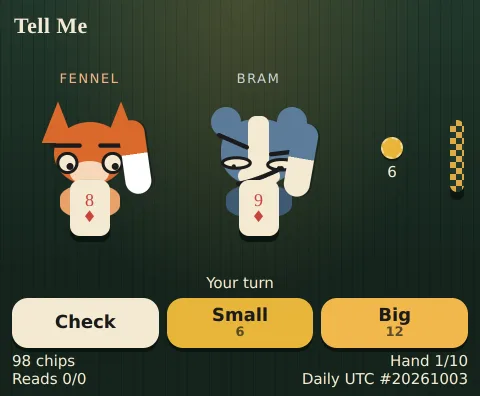
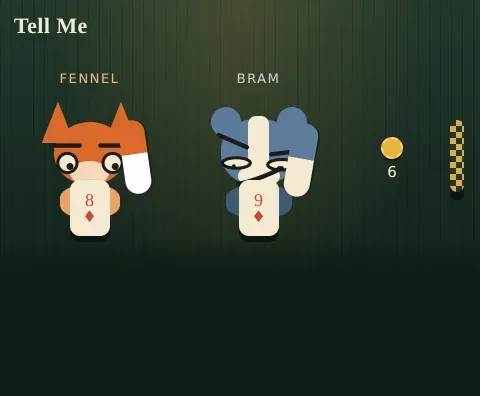
Cottage Arcade: fix the findings from the review
- Crimson Rogue's end card keeps FIGHT AGAIN and ARCADE in the window (switch.js credits: false for the four Lab toys, and the roll stops at its bottom edge when the card is taller than the window).
- In Full Swing stops its sound when the page is hidden on a phone.
- A SoundCloud song that starts after the page was hidden is paused.
- Small Worlds asks search engines to skip it.
- The switcher names Shore of the Ancients.
- machines.mjs compares each machine with its switcher entry and checks the Crimson end card; quiet.mjs scans for video, speech and SoundCloud, tests a late SoundCloud script, and tests In Full Swing.
- Tell Me and BREAKTHROUGH link back to the arcade; the Tell Me machine art no longer shows its button row.
- OpenSpec changes for the machines and for the sound guard.

Claude-Session: https://claude.ai/code/session_013PKjXQjYyoyz8vDozgN76G

Changed region(s): [[0.0, 0.697, 1.0, 0.9697]]

diff --git a/public/arcade/switch.js b/public/arcade/switch.js
@@ -3,7 +3,7 @@
 // The script finds those buttons, works out which game this page is from its URL, and opens the list.
 (() => {
   const GAMES = [
-    { id: "tidebreak", name: "Monster Mash", sub: "Folklore realm MOBA", url: "/tidebreak/", art: "/tidebreak/art/mothman.webp", color: "#d2e46d" },
+    { id: "tidebreak", name: "Shore of the Ancients", sub: "3v3 folklore MOBA", url: "/tidebreak/", art: "/tidebreak/art/shore-ancients-hero.webp", color: "#d2e46d" },
     { id: "brawl", name: "Cottage Brawl", sub: "8-fighter platform battle", url: "/brawl/", art: "/brawl/art/hero-chaos.webp", color: "#ffca51" },
     { id: "worlds", name: "Small Worlds", sub: "Six mobile experiments", url: "/lab/worlds/", art: "/arcade/worlds.webp", color: "#c7e5ac" },
     { id: "plungerd", name: "Get Plunger'd", sub: "Cottage Brawl", url: "/plungerd/", art: "/arcade/plungerd.webp", color: "#e6c35c" },
@@ -16,15 +16,16 @@
     { id: "olympus", name: "Olympus", sub: "Last Flame", url: "/olympus/", art: "/arcade/olympus.webp", color: "#edc06b" },
     { id: "moonwell", name: "Moonwell", sub: "Endless pinball dungeons", url: "/moonwell/", art: "/arcade/moonwell.webp", color: "#edc779" },
     { id: "breakthrough", name: "Breakthrough", sub: "Climate strategy", url: "/breakthrough2/", art: "/arcade/breakthrough.webp", color: "#f0c56a" },
-    // The Lab and the games it lists. A game inside the Lab has a longer address than the Lab, and the longest match wins.
+    // credits: false keeps a game off the end card of Crimson Rogue (the Lab tile covers the four toys)
+  // The Lab and the games it lists. A game inside the Lab has a longer address than the Lab, and the longest match wins.
     { id: "lab", name: "The Lab", sub: "Early prototypes and toys", url: "/lab/", art: "/arcade/lab.webp", color: "#f0b848" },
     { id: "neon", name: "Neon Ronin", sub: "Gyro sword duels", url: "/neon/", art: "/arcade/neon.webp", color: "#caff54" },
     { id: "echo", name: "Loon Echo", sub: "Rescue the flock", url: "/echo/", art: "/arcade/echo.webp", color: "#9ff2de" },
     { id: "tellme", name: "Tell Me", sub: "A card game with critters", url: "/tellme/", art: "/arcade/tellme.webp", color: "#f4e4bd" },
-    { id: "plunge", name: "Take the Plunge", sub: "Dive and fly south", url: "/lab/plunge/", art: "/arcade/plunge.webp", color: "#ffce7e" },
-    { id: "creek", name: "Up the Creek", sub: "Your phone is the paddle", url: "/lab/creek/", art: "/arcade/creek.webp", color: "#92e8ce" },
-    { id: "tilt", name: "Full Tilt", sub: "A pinball voyage", url: "/lab/tilt/", art: "/arcade/tilt.webp", color: "#f5a6e5" },
-    { id: "rules", name: "House Rules", sub: "Build a Down the Drain layer", url: "/lab/rules/", art: "/arcade/rules.webp", color: "#ffd56b" },
+    { id: "plunge", name: "Take the Plunge", sub: "Dive and fly south", url: "/lab/plunge/", art: "/arcade/plunge.webp", color: "#ffce7e", credits: false },
+    { id: "creek", name: "Up the Creek", sub: "Your phone is the paddle", url: "/lab/creek/", art: "/arcade/creek.webp", color: "#92e8ce", credits: false },
+    { id: "tilt", name: "Full Tilt", sub: "A pinball voyage", url: "/lab/tilt/", art: "/arcade/tilt.webp", color: "#f5a6e5", credits: false },
+    { id: "rules", name: "House Rules", sub: "Build a Down the Drain layer", url: "/lab/rules/", art: "/arcade/rules.webp", color: "#ffd56b", credits: false },
   ];
   // a game marked probe shows only when its page answers
   const live = {};

diff --git a/public/arcade/quiet.js b/public/arcade/quiet.js
@@ -132,6 +132,10 @@
   const songs = [];
   let songTimer = 0;
   function hushSongs() {
+    // Ask again every second while hidden. A game can start a song while hidden (when it changes song, or when SoundCloud's
+    // script loads late on a slow phone), and a widget cannot be stopped from doing it. The timer starts before any check
+    // for the player, so a player that appears later is still found.
+    if (!songTimer) songTimer = setInterval(() => { if (hidden()) hushSongs(); else stopSongs(); }, 1000);
     const SC = window.SC, frames = document.querySelectorAll('iframe[src^="https://w.soundcloud.com/"]');
     if (!SC || typeof SC.Widget !== "function" || !frames.length) return;
     for (const f of frames) safe(() => {
@@ -139,8 +143,6 @@
       // the answer comes later: by then the page may be visible again
       w.isPaused((paused) => safe(() => { if (!paused && hidden()) { if (songs.indexOf(w) < 0) songs.push(w); w.pause(); } }));
     });
-    // a game can start a song again while hidden (when it changes song), and a widget cannot be stopped from doing it: ask again
-    if (!songTimer) songTimer = setInterval(() => { if (hidden()) hushSongs(); else stopSongs(); }, 1000);
   }
   function stopSongs() { clearInterval(songTimer); songTimer = 0; }
   function wakeSongs() {
@@ -177,4 +179,6 @@
       media() { const out = []; for (const e of medias) { const m = e.ref.deref(); if (m) out.push({ paused: m.paused, heldByQuiet: e.mine }); } return out; },
     }),
   }));
+  // a page that opens in a background tab gets no hide event, so start guarding at once
+  if (hidden()) hush();
 })();

diff --git a/public/crimson/js/credits.js b/public/crimson/js/credits.js
@@ -306,7 +306,7 @@ export function rollCredits(opts) {
   const grid = fin.querySelector('.games');
   const games = (window.GameSwitch && window.GameSwitch.GAMES) || [];
   for (const g of games) {
-    if (g.id === 'crimson') continue;
+    if (g.id === 'crimson' || g.credits === false) continue;
     const a = el('a', 'game', `<img alt=""><span><b></b><small></small></span>`);
     a.href = g.url; a.style.setProperty('--c', g.color || '#e9e6df');
     a.querySelector('img').src = g.art; a.querySelector('b').textContent = g.name; a.querySelector('small').textContent = g.sub;
@@ -334,6 +334,8 @@ export function rollCredits(opts) {
   let done = false, skipFrom = null, raf = 0, y = innerHeight;
   const endY = () => {
     const room = innerHeight - fin.offsetHeight;
+    // a last block taller than the window: show its bottom, so the buttons stay in view
+    if (room < 32) return -(fin.offsetTop + fin.offsetHeight - innerHeight + 16);
     return -(fin.offsetTop - Math.max(16, room / 2));
   };
   const frame = (rafNow) => {

diff --git a/public/vr/js/main.js b/public/vr/js/main.js
@@ -946,7 +946,11 @@ async function boot() {
   renderer.setAnimationLoop(loop);
   addEventListener("resize", onResize);
   addEventListener("pagehide", saveNow);
-  document.addEventListener("visibilitychange", () => { if (document.hidden) saveNow(); });
+  document.addEventListener("visibilitychange", () => {
+    if (document.hidden) saveNow();
+    // on the phone (flat) the page itself hides; in a headset session the XR visibility callback above does this
+    if (!isXR()) { if (document.hidden) audio.suspend(); else if (audioStarted) audio.resume(); }
+  });
 
   // PWA launch (spec §6): the icon tap is the user activation, so ask for the session before building the city
   let launched = false;

diff --git a/public/breakthrough2/style.css b/public/breakthrough2/style.css
@@ -96,6 +96,7 @@ h1, h2, .brand h1, #title h2, #ending h2, #flash-year {
 }
 #top h1 { font-size: 22px; line-height: 1; }
 .top-actions { display: flex; align-items: center; gap: 8px; }
+#home { white-space: nowrap; min-height: 44px; display: inline-flex; align-items: center; padding: 0 4px; font-size: 12px; font-weight: 700; color: var(--ink); text-decoration: none; }
 #seedline { margin: 0; font-size: 12px; font-weight: 600; color: var(--smog); }
 #help {
   width: 44px;

diff --git a/public/lab/worlds/index.html b/public/lab/worlds/index.html
@@ -3,6 +3,7 @@
 <head>
   <meta charset="utf-8">
   <script src="/arcade/quiet.js"></script>
+  <meta name="robots" content="noindex">
   <meta name="viewport" content="width=device-width,initial-scale=1,viewport-fit=cover">
   <meta name="theme-color" content="#09151a">
   <meta name="description" content="Six small worlds to play with one thumb. Pull a living landscape, fold a river, conduct a storm, and more.">

diff --git a/public/tellme/style.css b/public/tellme/style.css
@@ -77,6 +77,17 @@ button { font-family: inherit; touch-action: manipulation; }
   font-weight: 600;
   letter-spacing: .02em;
 }
+#home {
+  margin-left: 14px;
+  min-height: 44px;
+  display: inline-flex;
+  align-items: center;
+  font-size: 14px;
+  font-weight: 700;
+  color: inherit;
+  text-decoration: none;
+  opacity: .8;
+}
 #mute {
   position: absolute;
   top: 8px;

diff --git a/public/tellme/index.html b/public/tellme/index.html
@@ -14,7 +14,7 @@
   <div id="table">
     <img id="tablebg" alt="">
     <div id="glow"></div>
-    <header id="topbar"><h1>Tell Me</h1></header>
+    <header id="topbar"><h1>Tell Me</h1><a id="home" href="/">◀ Arcade</a></header>
     <div id="critters">
       <article class="critter fennel" data-who="fennel">
         <div class="name">Fennel</div>

diff --git a/public/breakthrough2/index.html b/public/breakthrough2/index.html
@@ -17,6 +17,7 @@
       <h1>Breakthrough</h1>
     </div>
     <div class="top-actions">
+      <a id="home" href="/">◀ Arcade</a>
       <p id="seedline">Seed</p>
       <button type="button" id="help" aria-label="How to play">?</button>
     </div>

diff --git a/README.md b/README.md
@@ -19,7 +19,7 @@ The site opens on the Cottage Arcade, a room of old-school cabinets. Click anywh
 - Every game's menu has a **Switch game** button. It lists every game that has a machine, marks the one you are playing, and jumps straight to another game or back to the arcade. The two buttons at the bottom stay in view while you scroll the list. The list lives in `public/arcade/switch.js`. When one game's address starts with another's (`/lab/worlds/` and `/lab/`), the longer one is the game you are playing. Only some game menus have the button so far. To add the button to a game, load that script and give a menu button the `data-switch` attribute. Breath of the Lake (`/wild/`) is already on the list: its tile shows as soon as that game is live.
 - Each screen shows your best run from that game, saved in your browser. Down the Drain shows its high score and the initials of the player who set it.
 
-Sound stops when a page is hidden. On a phone, a tab you leave, a browser you minimise, or a locked screen can keep playing music. `public/arcade/quiet.js` stops it for every game. It keeps track of every `AudioContext`, `<audio>`, and `<video>` that a page makes, and of the SoundCloud songs in Get Plunger'd and Crimson Rogue. When the page is hidden, it suspends them. When the page is visible again, it starts only what it stopped, and a game that suspends its own sound keeps control of it. Each game page that makes sound loads it first in `<head>`: `<script src="/arcade/quiet.js"></script>`. A new game must do the same. In Full Swing (`/vr/`) does not load it, because its own sound already follows the VR session. To test it, serve `public/` and run `node qa/arcade/quiet.mjs`. It fails when a page with sound does not load the script first. It also opens each game, hides the page, and checks that the sound stops and comes back.
+Sound stops when a page is hidden. On a phone, a tab you leave, a browser you minimise, or a locked screen can keep playing music. `public/arcade/quiet.js` stops it for every game. It keeps track of every `AudioContext`, `<audio>`, and `<video>` that a page makes, and of the SoundCloud songs in Get Plunger'd and Crimson Rogue. When the page is hidden, it suspends them. When the page is visible again, it starts only what it stopped, and a game that suspends its own sound keeps control of it. Each game page that makes sound loads it first in `<head>`: `<script src="/arcade/quiet.js"></script>`. A new game must do the same. In Full Swing (`/vr/`) does not load it. Its own code stops the sound when a headset session is hidden, and when the page is hidden on a phone. To test it, serve `public/` and run `node qa/arcade/quiet.mjs`. It fails when a page with sound does not load the script first. It also opens each game, hides the page, and checks that the sound stops and comes back.
 
 ## Play
 
@@ -419,8 +419,8 @@ A keeper session refreshes the board every hour. To refresh it by hand, do the s
 | Path | What it does |
 | --- | --- |
 | `public/index.html` | The Cottage Arcade: the launcher with a cabinet for each game |
-| `public/arcade/` | The art on the arcade screens, and `switch.js`, the game switcher every game's menu opens |
-| `qa/arcade/` | The test that every game has a machine (see below) |
+| `public/arcade/` | The art on the arcade screens, `switch.js` (the game switcher every game's menu opens), and `quiet.js` (stops the sound of a hidden page) |
+| `qa/arcade/` | The tests that every game has a machine, and that sound stops when a page is hidden (see below) |
 | `public/plungerd/index.html` | The page for Get Plunger'd |
 | `public/plungerd/app.js` | The game script. The crew, the boss sheets, and the cover art are inside the file |
 | `public/plungerd/art/` | The painted ground, walls, critters, props, guns, shots, and effects. Each file also comes at half size (`.sd.webp`) for phones |
@@ -533,7 +533,8 @@ Serve `public/` (for example `cd public && python3 -m http.server 8765`), then r
 
 | Script | What it checks |
 | --- | --- |
-| `qa/arcade/machines.mjs` | Every game folder in `public/` (and every toy folder in `public/lab/`) has a machine and a place in `switch.js`, and the pictures are there. Then, at 390×844 and 1280×720, the arrows walk to every machine, a token goes in (dragged, tapped, or with key 5), START or key 1 or Enter picks the right address, and the page has no errors. It also checks the last machine by key and by swipe at seven window sizes, that no machine is clipped or overlapped, that the game switcher shows every game, marks the right one for each address, and keeps its exit buttons in reach, and that a junk save never breaks a screen line. A game with no machine must be in the `ALLOW` list in the script, with the reason. |
+| `qa/arcade/machines.mjs` | Every game folder in `public/` (and every toy folder in `public/lab/`) has a machine and a place in `switch.js`, and the pictures are there. Then, at 390×844 and 1280×720, the arrows walk to every machine, a token goes in (dragged, tapped, or with key 5), START or key 1 or Enter picks the right address, and the page has no errors. It also checks the last machine by key and by swipe at seven window sizes, that no machine is clipped or overlapped, that the game switcher shows every game, marks the right one for each address, and keeps its exit buttons in reach, and that a junk save never breaks a screen line. A game with no machine must be in the `ALLOW` list in the script, with the reason. Each machine and its switcher entry must have the same id and the same name. The end card of Crimson Rogue, which lists the games of the switcher, keeps its buttons in the window at 360×740, 390×844 and 1280×720. |
+| `qa/arcade/quiet.mjs` | Every page that makes sound loads `quiet.js` first (the scan). The script itself, on small test pages: contexts, media, SoundCloud songs, speech, `interrupted` contexts, a page with no `AudioContext`, and a script that loads twice. Then every game page, started the way a player starts it: the sound runs, goes silent when the page is hidden (even when the page pokes at its sound, and after 3 s), and runs again when the page is visible. It hides pages four ways: a page-level `visibilitychange`, `pagehide` then `pageshow`, a second tab on top, and a page freeze. A full run takes about 25 minutes. `--old` shows which pages are loud without the script. |
 
 ### Lab tests
 

diff --git a/openspec/changes/arcade-machine-for-every-game/specs/arcade-cabinet/spec.md b/openspec/changes/arcade-machine-for-every-game/specs/arcade-cabinet/spec.md
@@ -1,0 +1,58 @@
+## ADDED Requirements
+
+### Requirement: A machine for every game
+The Cottage Arcade homepage SHALL have a machine for every playable game page under `public/`. A page that has no machine SHALL be named in the list of exceptions in `qa/arcade/machines.mjs`, with a reason.
+
+#### Scenario: A new game page is added
+- **WHEN** a folder with an `index.html` is added under `public/` and has no machine
+- **THEN** `qa/arcade/machines.mjs` fails and names the folder
+
+#### Scenario: Start any machine
+- **WHEN** the player drops a token and presses START on any machine, on a phone or on a computer
+- **THEN** the browser goes to the address in that machine's `data-url`, and that address is the game the marquee names
+
+#### Scenario: The Lab and its games
+- **WHEN** the player looks through the machines
+- **THEN** the player finds The Lab, Small Worlds, Take the Plunge, Up the Creek, Full Tilt, House Rules, Neon Ronin, Loon Echo and Tell Me
+
+### Requirement: Every machine can be reached
+Every machine SHALL be reachable with the arrows, a swipe, the keyboard and the machine list, and SHALL show whole (not clipped, not under the sign or the tray, no page scroll) at the sizes 360x740, 375x667, 390x844, 430x932, 768x1024, 1280x720 and 1920x1080.
+
+#### Scenario: Last machine on a phone
+- **WHEN** the player goes to the last machine on a 360 by 740 screen
+- **THEN** the machine is inside the window and nothing overlaps it
+
+### Requirement: High-score lines never fail
+Each machine SHALL show a line from its game's own save, or a plain line when the game has none. A saved value that is junk SHALL leave the plain line and SHALL NOT raise an error. A game's save SHALL change only that game's line.
+
+#### Scenario: Junk save
+- **WHEN** a game's save holds text that is not a score
+- **THEN** the machine shows its plain line and the page has no error
+
+### Requirement: The switcher lists every game
+The game switcher SHALL list every game that has a machine, with the same id and the same name as the machine. It SHALL mark the current game by the longest matching address. Its exit buttons SHALL stay in the window however many games it lists.
+
+#### Scenario: Inside the Lab
+- **WHEN** the player opens the switcher on `/lab/worlds/`
+- **THEN** the tile for Small Worlds is marked as the game being played, and the tile for The Lab is not
+
+### Requirement: Crimson Rogue's end card keeps its buttons
+The end card of Crimson Rogue SHALL keep the play-again button and the arcade link inside the window at the end of the credits, at any window size.
+
+#### Scenario: Phone, end of credits
+- **WHEN** the credits reach their end on a 360 by 740 screen
+- **THEN** both buttons are inside the window
+
+### Requirement: A way back to the arcade
+Tell Me and BREAKTHROUGH SHALL show a link to the arcade.
+
+#### Scenario: Home-screen app
+- **WHEN** the player opens Tell Me from the home screen of a phone, with no browser back button
+- **THEN** a link to the arcade is on the screen
+
+### Requirement: Lab pages stay out of search
+Every page under `public/lab/` SHALL carry `<meta name="robots" content="noindex">`.
+
+#### Scenario: Small Worlds
+- **WHEN** a search engine reads `/lab/worlds/`
+- **THEN** it finds the noindex tag

diff --git a/openspec/changes/arcade-sound-when-hidden/design.md b/openspec/changes/arcade-sound-when-hidden/design.md
@@ -1,0 +1,17 @@
+# Design
+
+**One script, loaded first.** `quiet.js` wraps `AudioContext` and `webkitAudioContext` before any game code runs, so every context a page makes is known. It also wraps `HTMLMediaElement.play`.
+
+**On hide** (`visibilitychange`, `pagehide`, `freeze`) it suspends every running context, pauses every audible `<audio>` and `<video>`, cancels speech, and asks each SoundCloud player to pause. It remembers what it stopped. While the page is hidden, `resume()` and `play()` do nothing and return a resolved promise. A page that asks for sound while hidden gets it when the page is visible again.
+
+**On show** (`visibilitychange`, `pageshow`, `resume`) it starts only what it stopped. A context that the game suspended on its own stays the game's. A context in the iOS `interrupted` state is resumed.
+
+**Muted media is left alone.** The tutorial clips in Down the Drain, Get Plunger'd and Reel It In are muted, so pausing them would only start them again later.
+
+**SoundCloud.** The songs play inside an iframe that no script of ours can reach. SoundCloud's own script, `SC.Widget(iframe)`, returns the page's own widget, so the guard pauses and plays it. A game can start a song again while hidden, and SoundCloud's script can load late on a slow phone. While the page is hidden the guard asks every second, from the first hide, even when the script is not there yet.
+
+**The VR page.** A headset browser may report the page as hidden during an immersive session, so `quiet.js` stays out. In flat mode on a phone, the page's own `visibilitychange` handler suspends and resumes `audio`.
+
+**Safe by design.** The script never throws and never logs. It works when `AudioContext` does not exist. A second copy does nothing. `window.__quiet` is read-only and exists for tests.
+
+**Test.** `qa/arcade/quiet.mjs` has four parts: a scan of the pages, unit pages for the script, the game pages started the way a player starts them, and a silent-page check. It hides pages four ways: a page-level `visibilitychange`, `pagehide` then `pageshow`, a second tab on top (plain Chromium over CDP), and a page freeze.
